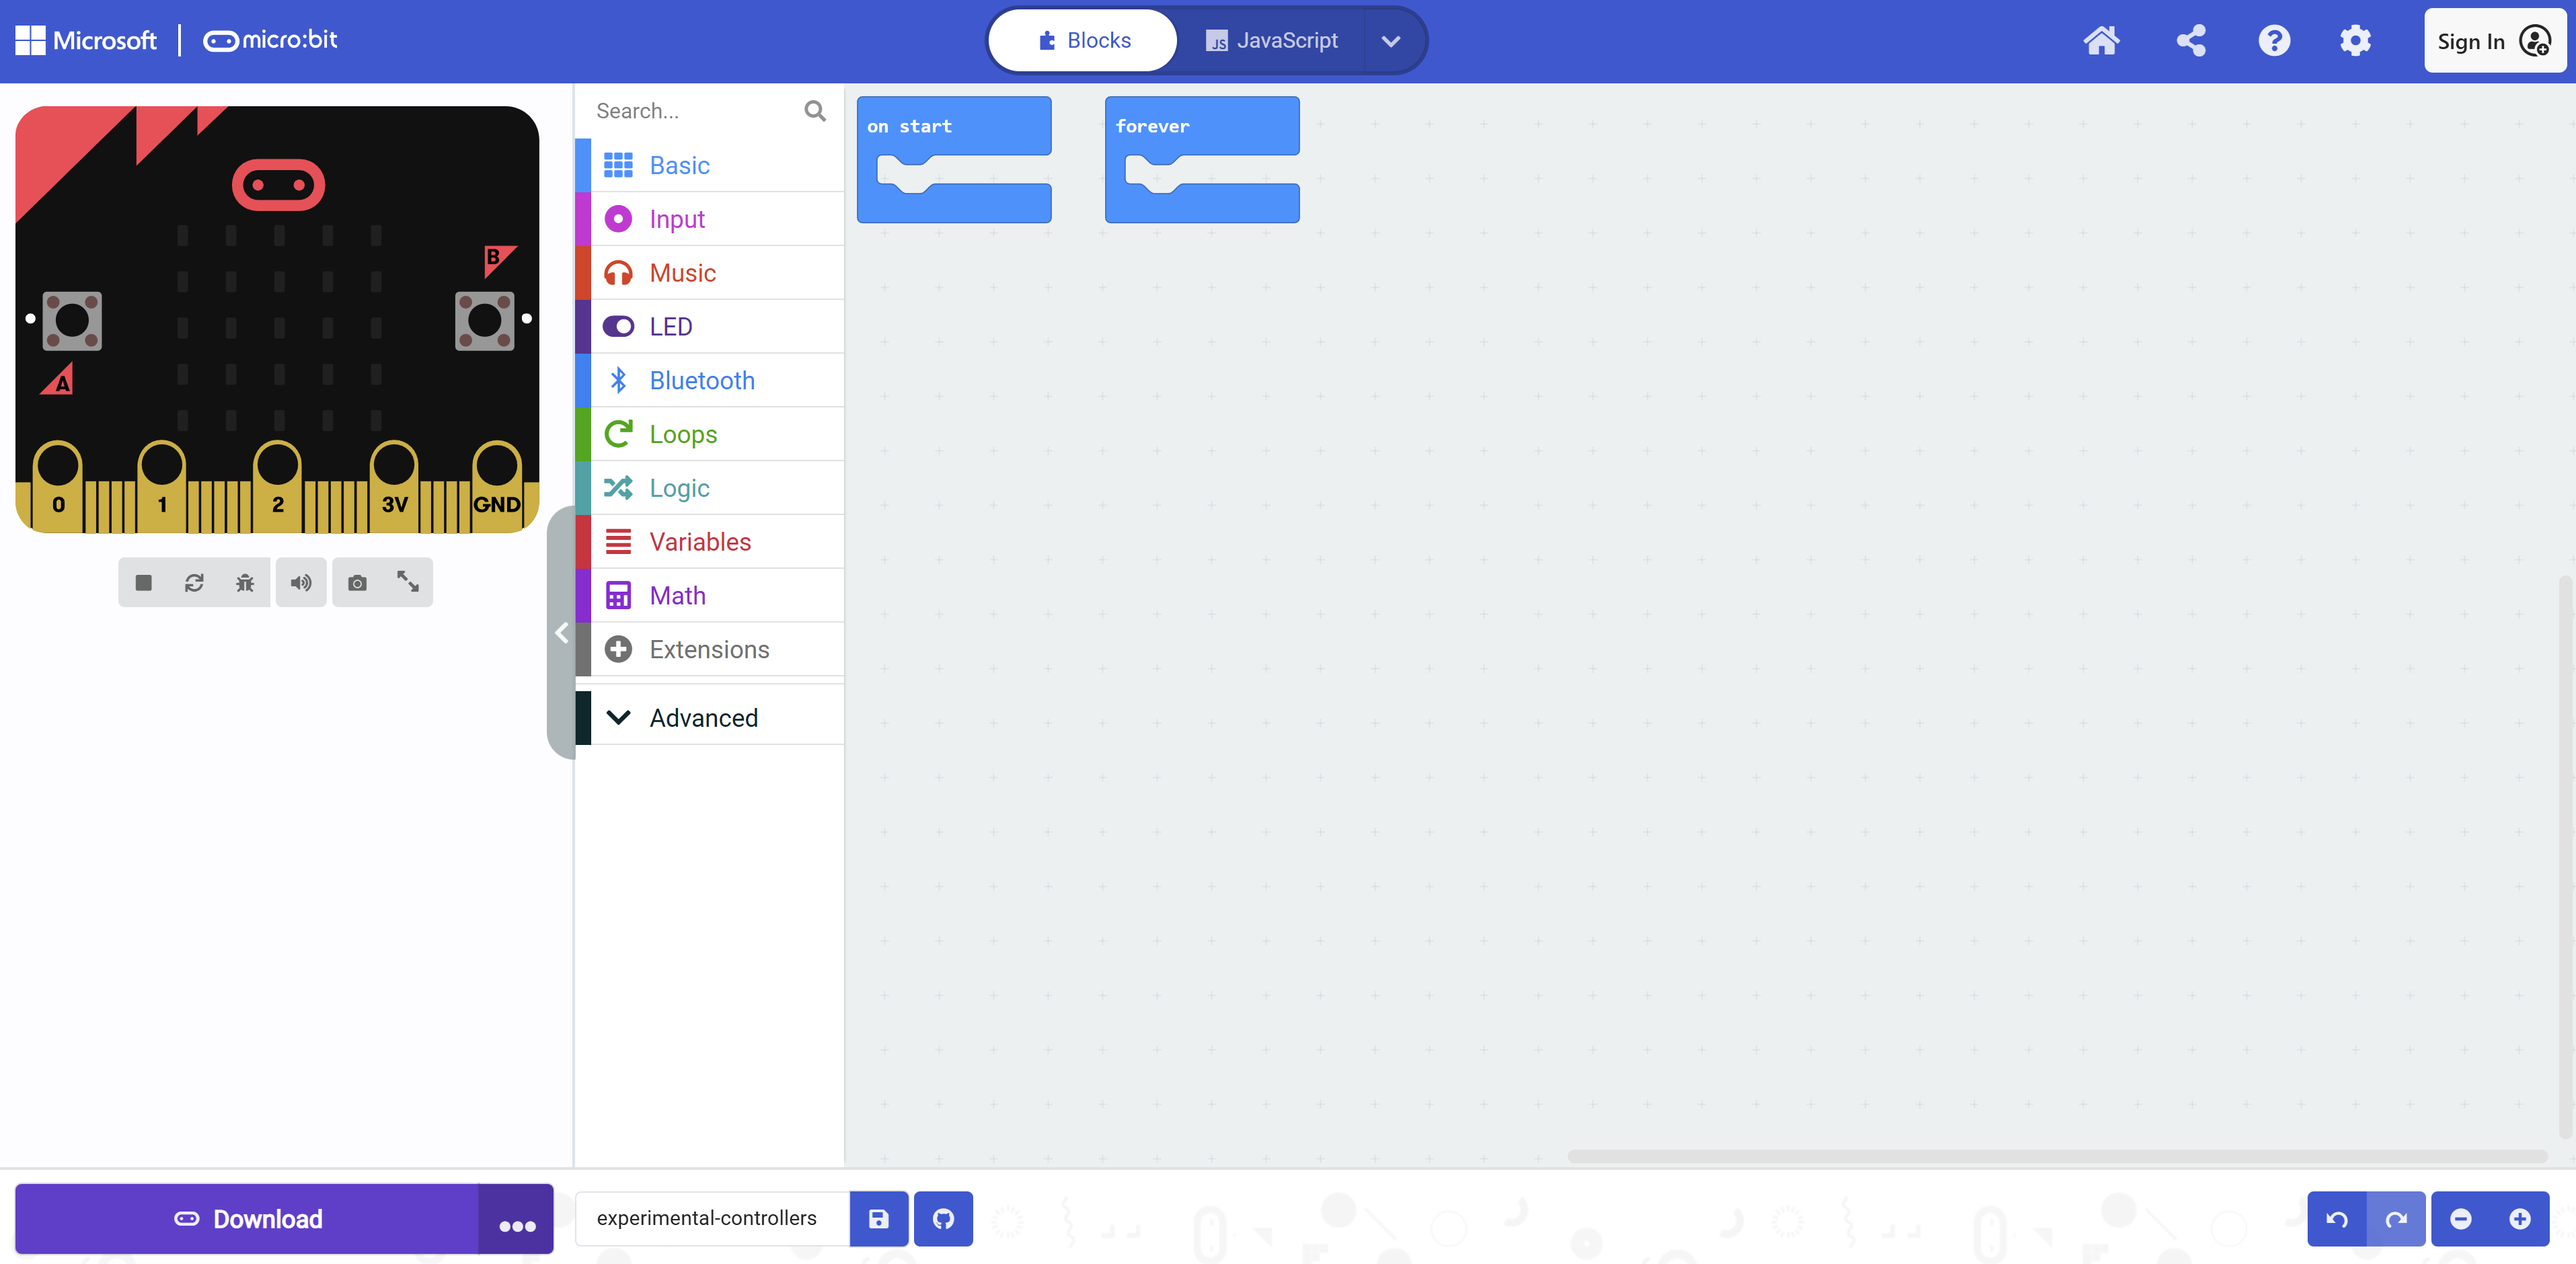
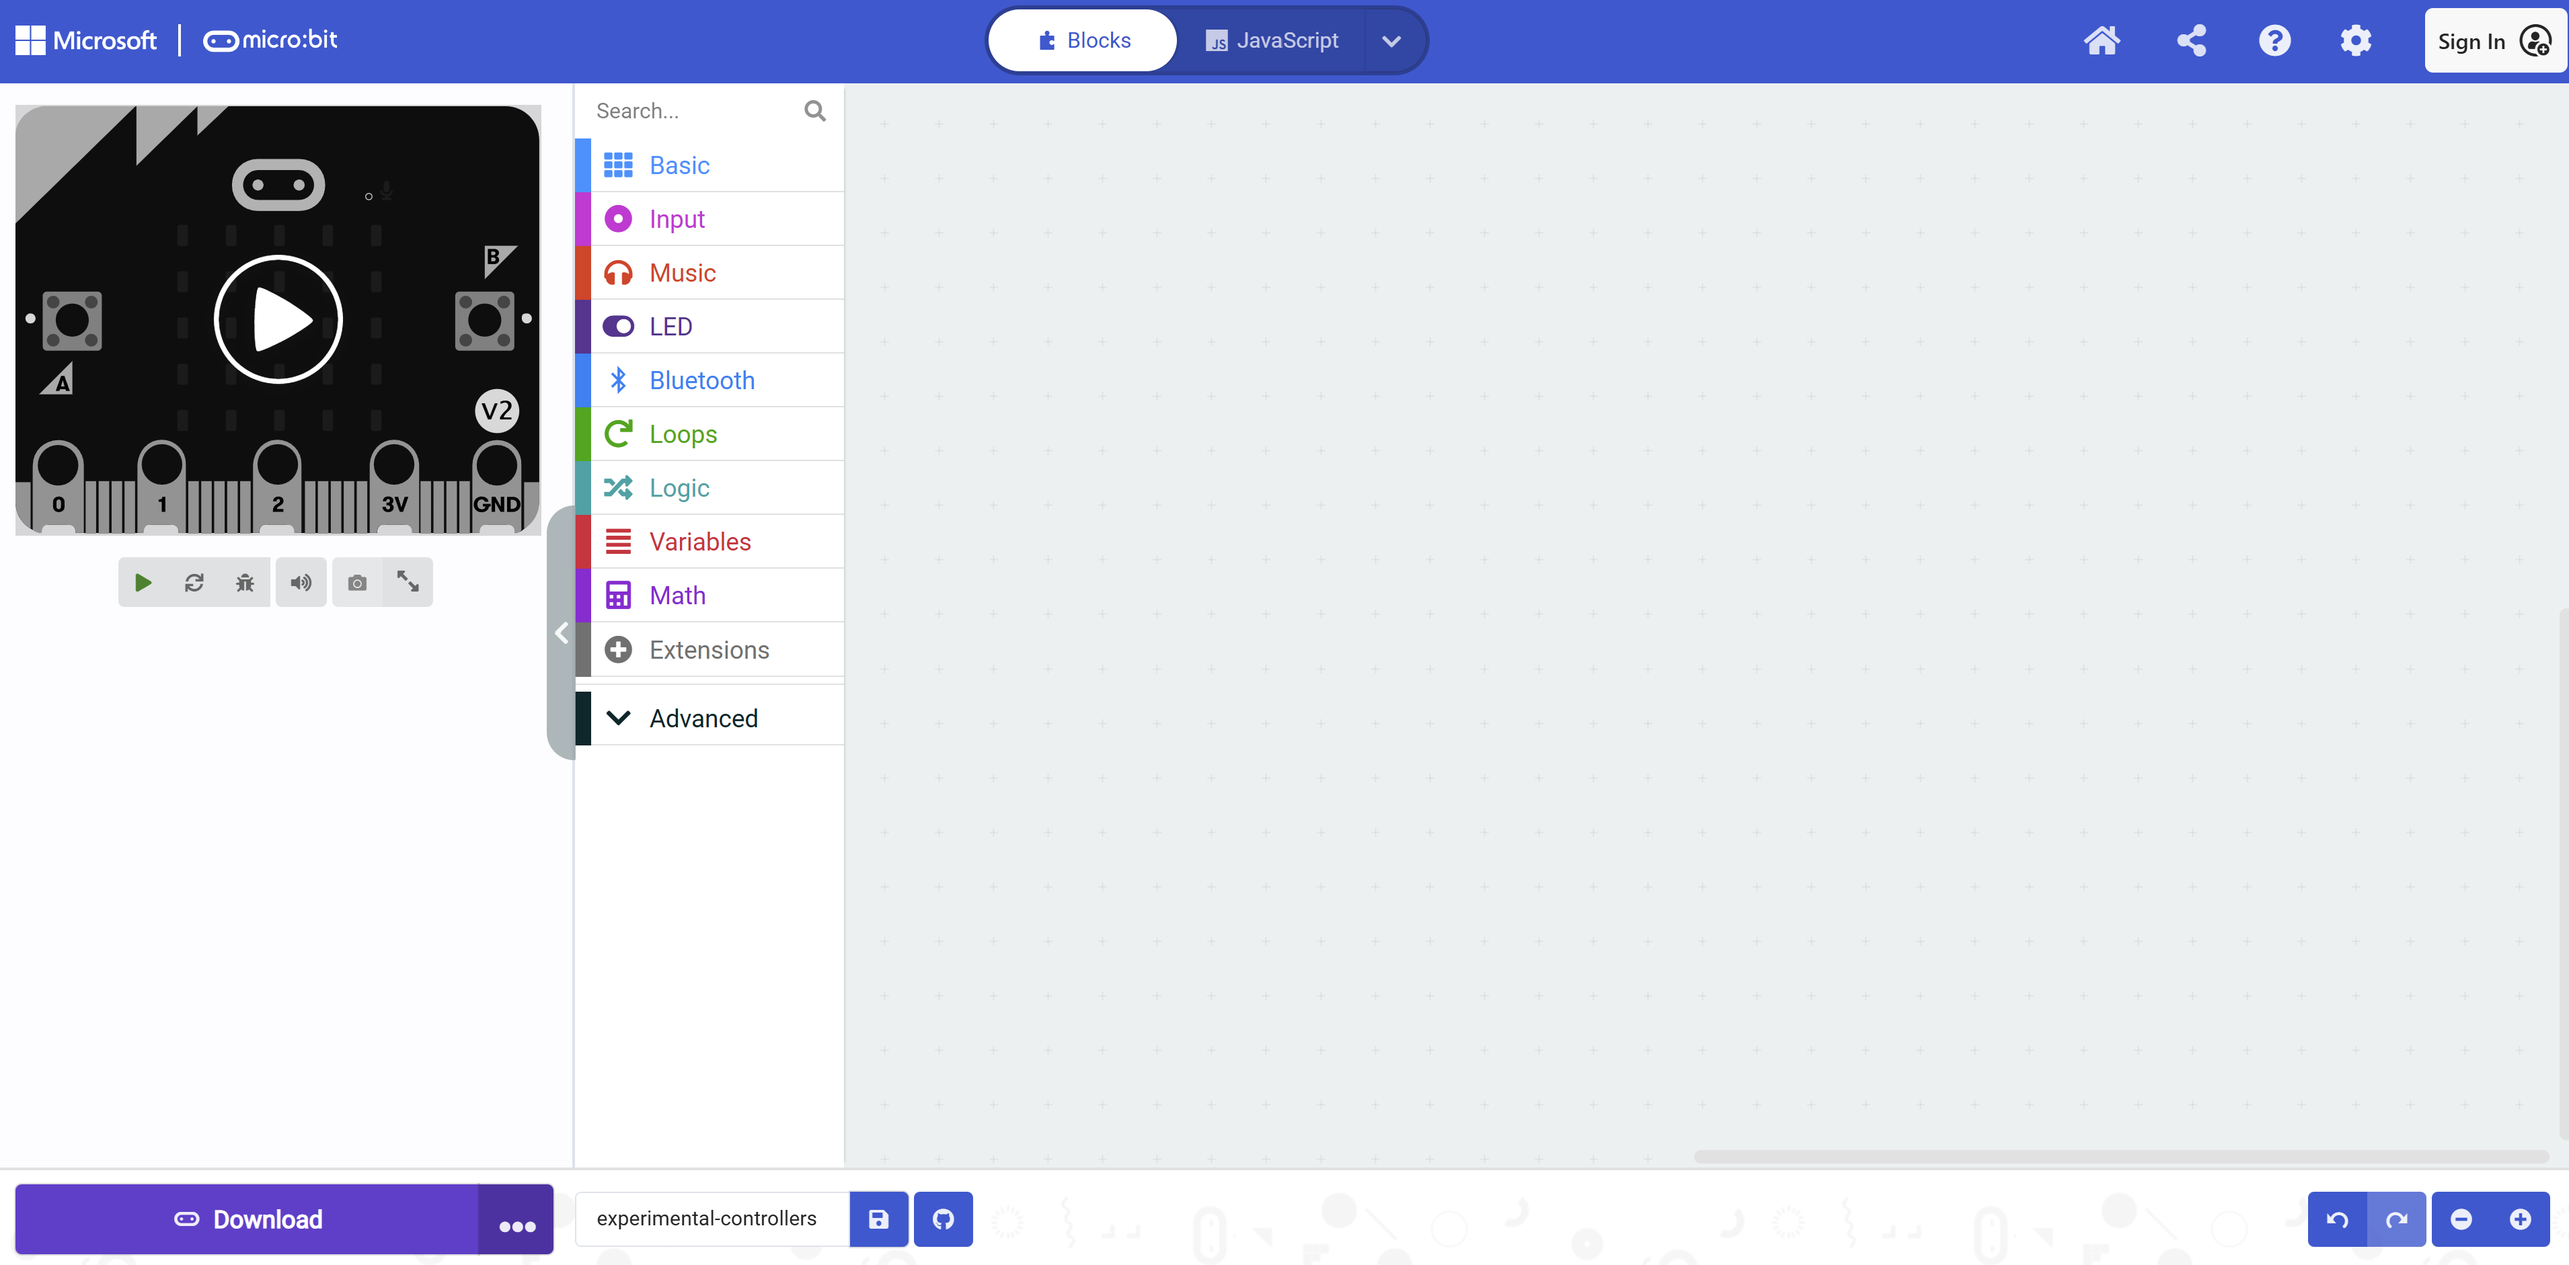
setup: use pairing screenshot for the download step
- Step 4 (download/flash): replaced the stale drag-the-.hex placeholder with the
  real setup-pair.png (the browser pairing pop-up), matching the reworked WebUSB
  pairing instructions
- Updated assets/README (setup-flash -> setup-pair) and refreshed setup-project.png
- Remaining placeholders: setup-name (step 5), setup-chooser (step 6)

diff --git a/index.html b/index.html
@@ -208,16 +208,16 @@ basic.forever(function () {
             <div class="step-body">
               <h3>Flash it to your micro:bit</h3>
               <p>
-                Your micro:bit must be plugged into your computer to receive new code. Plug the micro:bit in over USB, then click <strong>Download</strong> in the bottom right.
-              </p>
-              <br/>
-              <p>
-                If this is your first time downloading, follow the pop-up instructions to pair your board to your browser. A red light on the back of the board will blink while it
-                copies code, then stops when it's done.
+                Your micro:bit must be plugged into your computer to receive new code. Plug the micro:bit in over USB, then click <strong>Download</strong> in the bottom right of the MakeCode editor. If this is your first time downloading, follow the pop-up instructions to pair your board to your browser.
               </p>
               <figure class="shot">
-                <div class="shot-ph" data-file="assets/setup-flash.png">Downloading and dragging the .hex onto the MICROBIT drive</div>
+                <img src="assets/setup-pair.png" alt="The browser's pop-up for pairing the micro:bit during the first download" />
               </figure>
+              <br/>
+              <p>
+                A red light on the back of the board will blink while it
+                copies code, then stop when it's done.
+              </p>
             </div>
           </li>
 

diff --git a/assets/README.md b/assets/README.md
@@ -7,8 +7,8 @@ placeholder box on the page for the real image:
 | --- | --- |
 | `setup-microbit.png` | A micro:bit v2 board |
 | `setup-project.png` | The starter project open in MakeCode (micro:bit simulator visible) |
-| `setup-flash.png` | Downloading / dragging the `.hex` onto the MICROBIT drive |
+| `setup-pair.png` | The browser's pairing pop-up during the first download |
 | `setup-name.png` | The five-letter name scrolling across the micro:bit LEDs |
 | `setup-chooser.png` | The browser's Bluetooth chooser listing "BBC micro:bit […]" |
 
-PNG or JPG both fine. Landscape crops look best (they render up to 460px wide).
+PNG or JPG both fine. Landscape crops look best (they render up to 620px wide).
